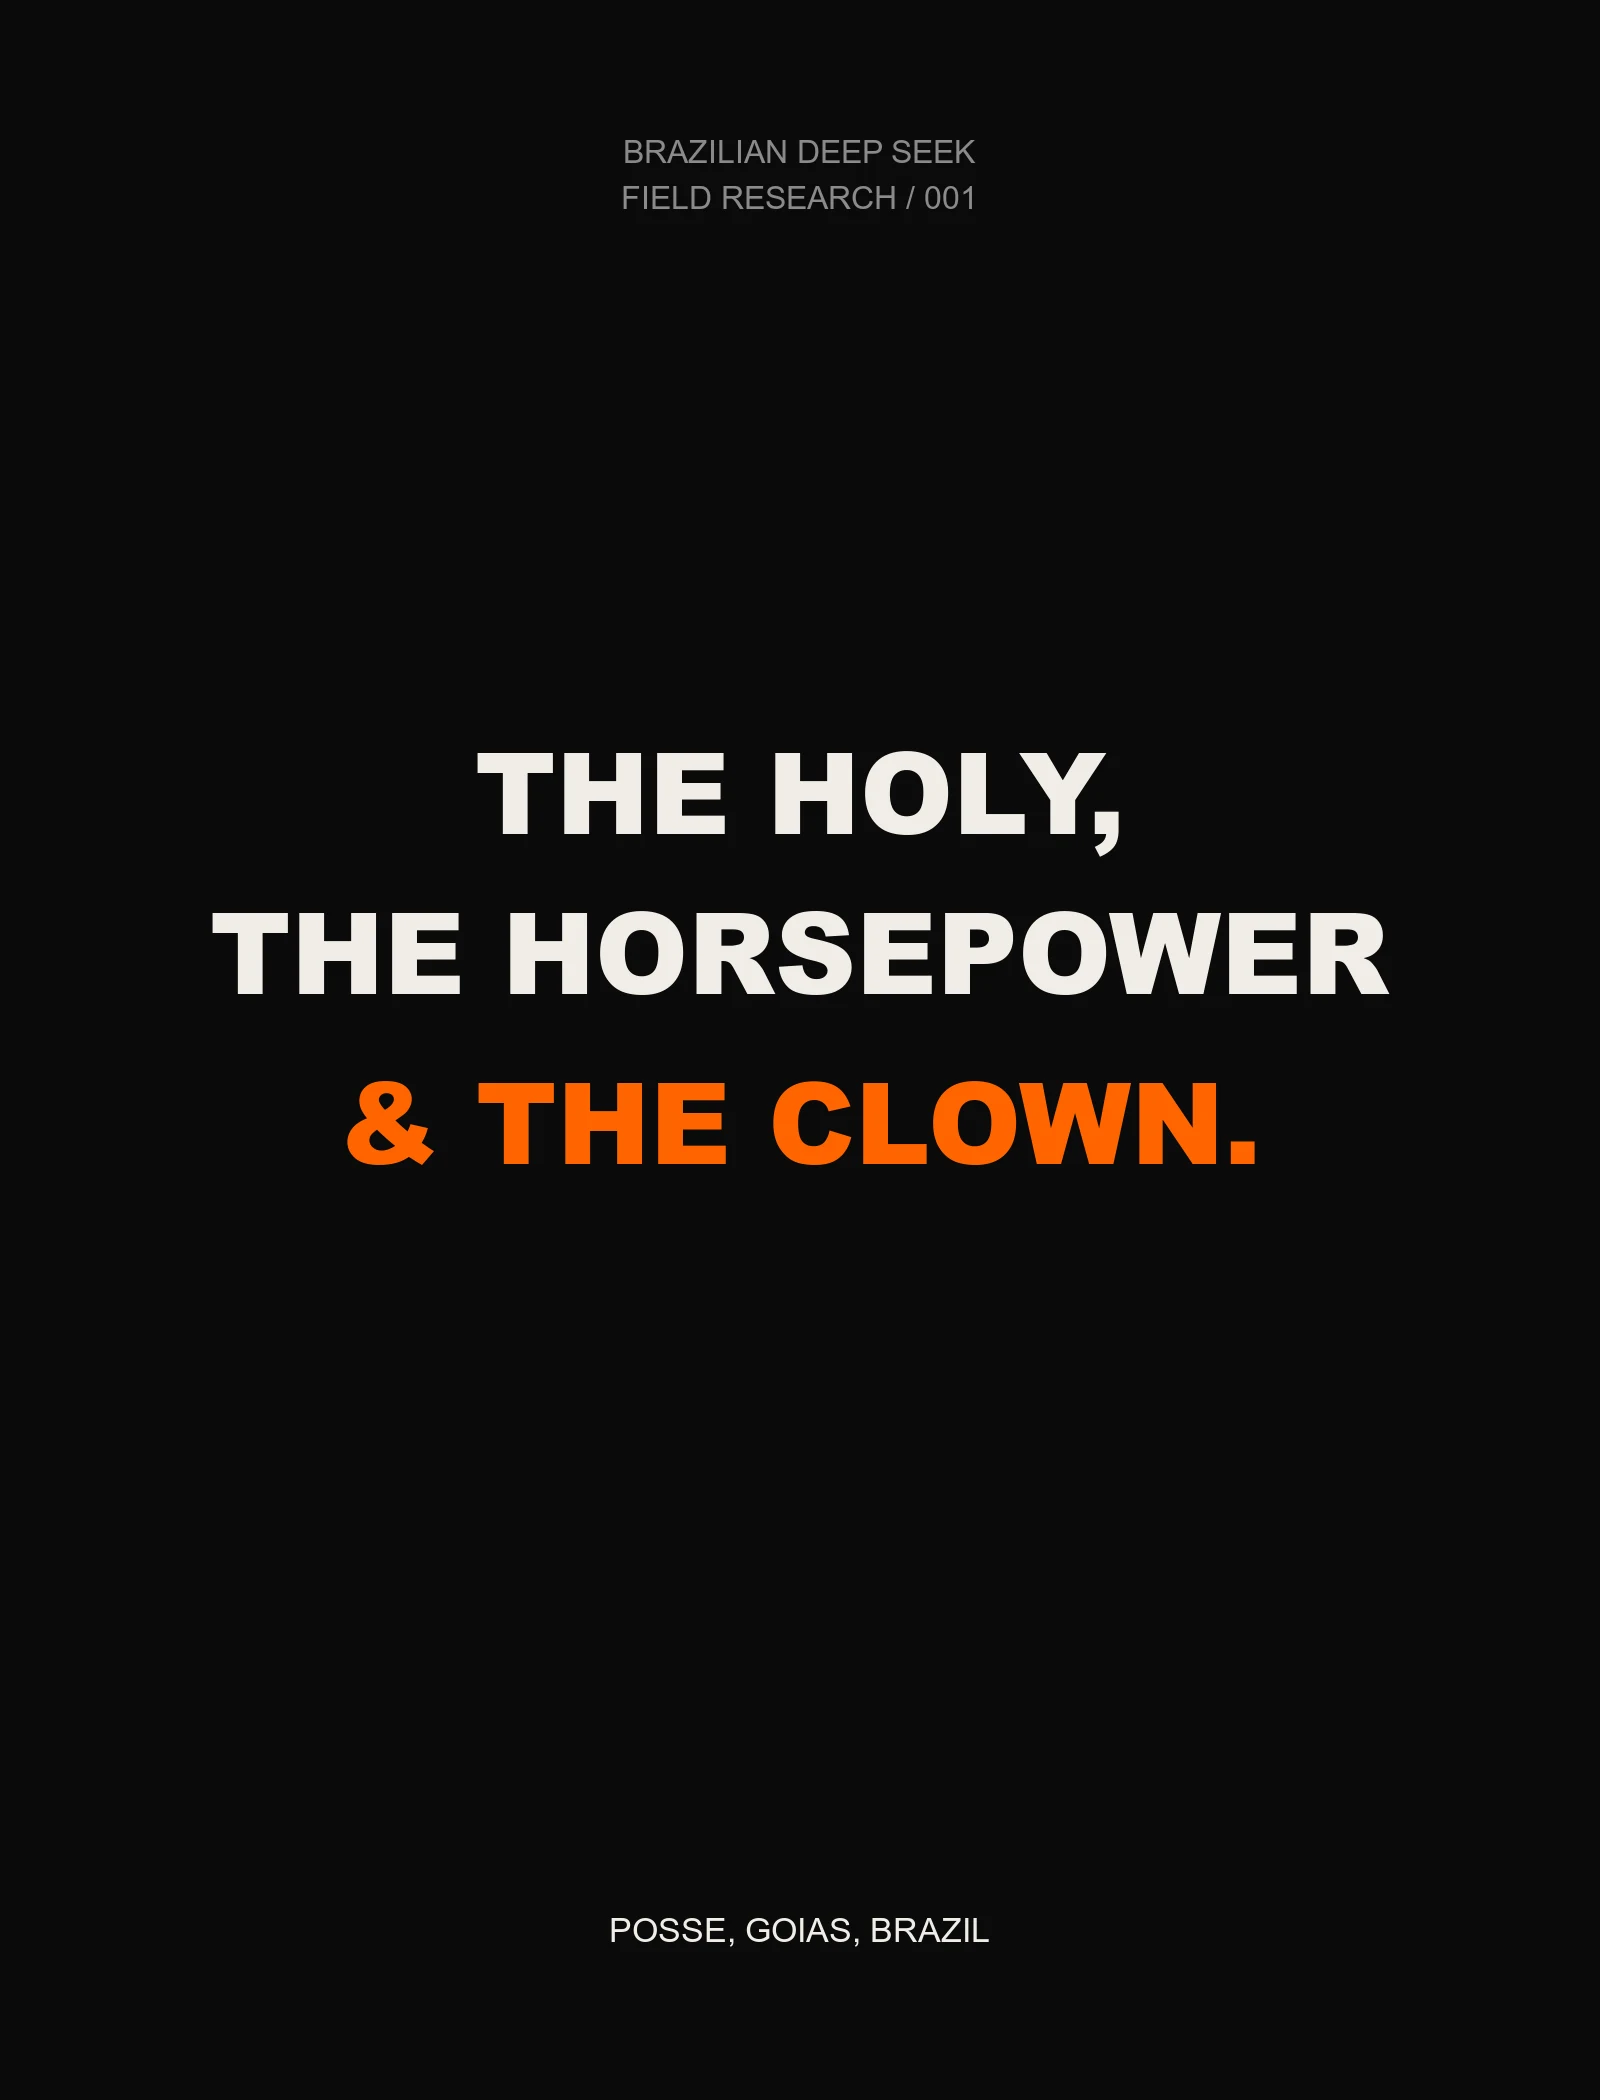
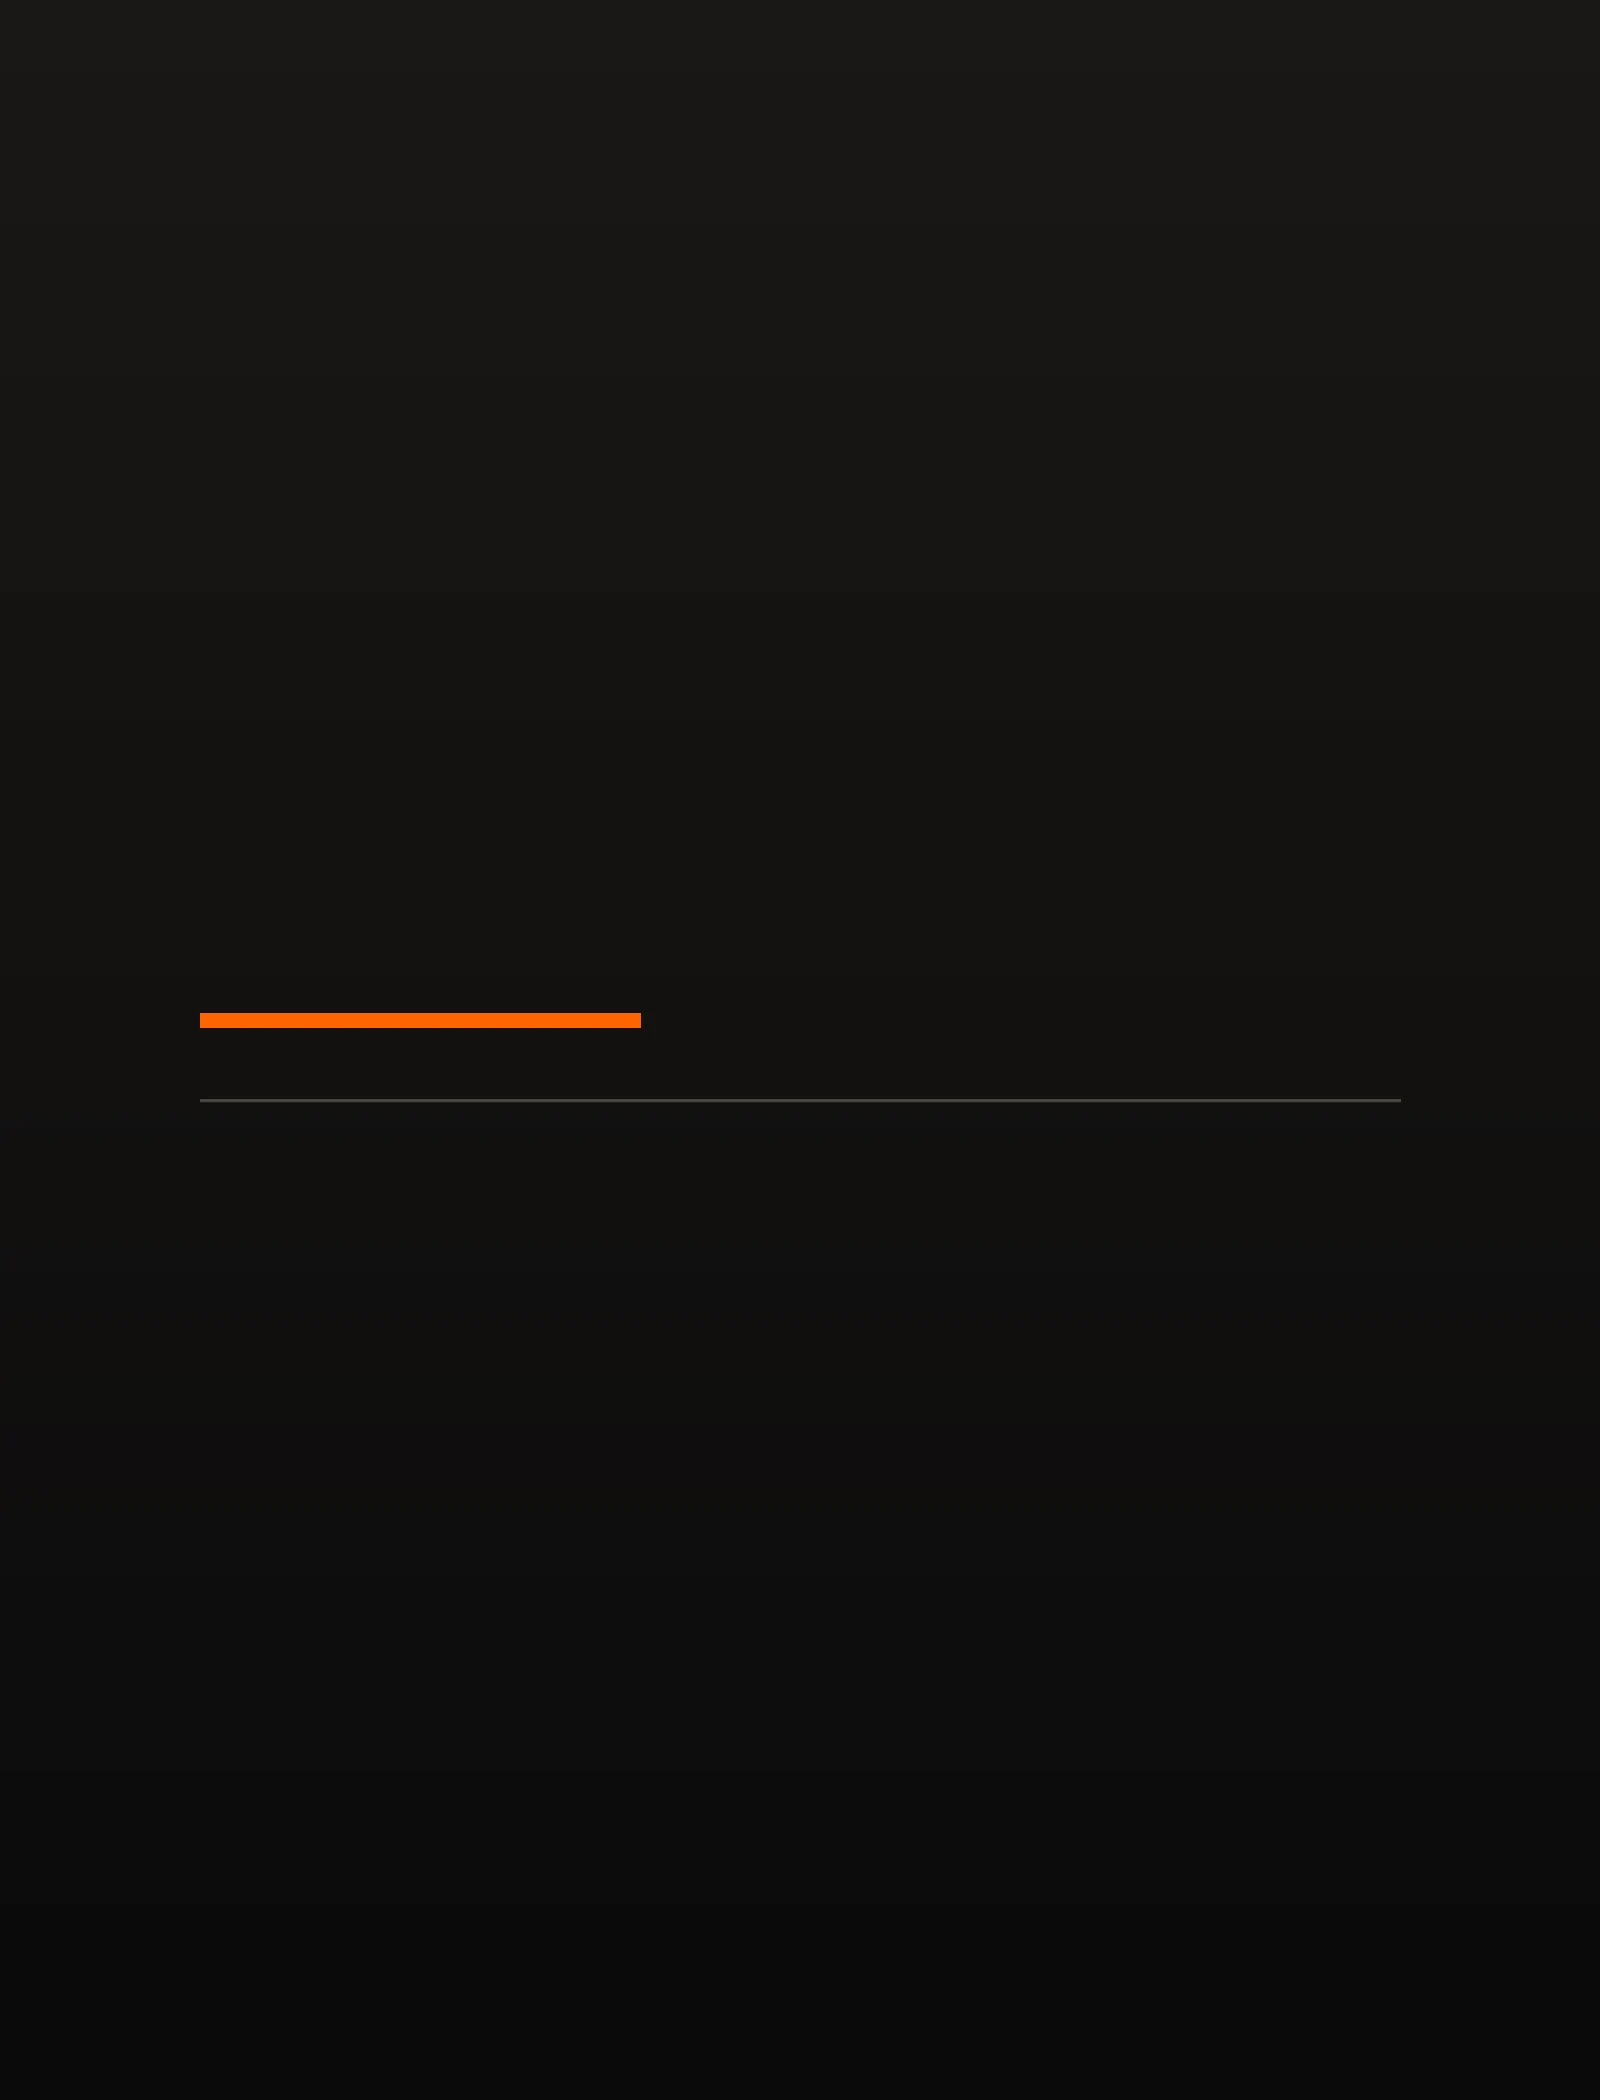
qa visual da leva: capa do artigo sem texto e stickers espalhados de novo
Particao 2 do CHANGES #01. Dois defeitos achados em iPhone 13 real (390px) e
1440px, os dois corrigidos e reconferidos em screenshot.

1. HERO DO ARTIGO NOVO: a capa provisoria trazia o titulo em corpo grande e o
   hero desenha o <h1> POR CIMA dela. O mesmo titulo aparecia duas vezes,
   sobreposto, no mobile e no desktop. A capa passa a ser um campo escuro com um
   filete ambar, SEM TEXTO NENHUM. Alt e _CREDITOS.md atualizados.

2. STICKERS DO MOTOR SCROLLY: `left: calc(15% + (var(--i) * 13%) % 70%)` e CSS
   invalido, porque `%` nao e operador de calc(). O navegador descartava a
   declaracao inteira e os 60 fragmentos da materia caiam todos em `left: 0`,
   empilhados na borda, com a linha girada 18deg cortando a primeira letra fora
   da tela. Medido: `left` computado `0px` em todos. Trocado por um ciclo de seis
   posicoes fixas em nth-child, que nao tem aritmetica para dar errado.

Conferido tambem, sem defeito: home (os dois carrosseis com nome e link proprio,
o FAB do Instagram em 48px so na home), /mag nos dois idiomas, /creators/tavaristico.
Console limpo fora de um aviso antigo de proporcao do logo do rodape.

tsc --noEmit limpo, build limpo. NADA PUBLICADO.

Claude-Session: https://claude.ai/code/session_01NNDzHhu62fyfbbLGjucMQz

diff --git a/src/styles/scrolly.css b/src/styles/scrolly.css
@@ -1019,8 +1019,16 @@
   position: absolute;
   /* Base subiu de 10% para 15% em 24/08/2026: com a fonte maior, a linha girada
      18deg balanca a primeira palavra para fora pela esquerda e o "C" de
-     "Conheci" encostava na borda da janela. */
-  left: calc(15% + (var(--i, 0) * 13%) % 70%);
+     "Conheci" encostava na borda da janela.
+     🔴 CORRIGIDO em 10/09/2026, no QA visual da materia de Posse: a regra era
+     `calc(15% + (var(--i) * 13%) % 70%)`, e `%` NAO e operador de `calc()` (so
+     + - * / sao). A declaracao inteira era invalida e o navegador a descartava:
+     TODO sticker caia em `left: 0`, empilhado na borda, e a linha girada cortava
+     a primeira letra fora da tela. Medido em iPhone 13 (390px): `left` computado
+     `0px` nos 60 fragmentos da materia. O espalhamento agora e um ciclo de seis
+     posicoes por `nth-child`, sem aritmetica: valor fixo nao tem como ser
+     descartado. Teto de 42%, porque `max-width: 52vw` somado a isso ainda cabe. */
+  left: 10%;
   top: calc(8vh + (var(--i, 0) * 22vh));
   /* REGRA DO MOTOR, pedido do fundador em 24/08/2026: os fragmentos soltos
      precisam ser MAIORES. Estavam em 14px (body-sm-size-sm) fixo, girados 18deg
@@ -1037,6 +1045,12 @@
   color: var(--tbf-text-secondary);
   opacity: 0;
 }
+
+.scrolly-stickers__item:nth-child(6n + 2) { left: 34%; }
+.scrolly-stickers__item:nth-child(6n + 3) { left: 18%; }
+.scrolly-stickers__item:nth-child(6n + 4) { left: 42%; }
+.scrolly-stickers__item:nth-child(6n + 5) { left: 26%; }
+.scrolly-stickers__item:nth-child(6n + 6) { left: 14%; }
 
 @supports (animation-timeline: view()) {
   .scrolly-stickers__item {

diff --git a/src/content/articles/brazilian-country-side.ts b/src/content/articles/brazilian-country-side.ts
@@ -101,8 +101,8 @@ export const brazilianCountrySide: ManifestoArticle = {
   cover: {
     src: '/images/editorial/country-side/capa.webp',
     alt: {
-      en: 'Typographic cover on black: the headline THE HOLY, THE HORSEPOWER & THE CLOWN. Provisional, no photograph.',
-      pt: 'Capa tipográfica em fundo preto: o título THE HOLY, THE HORSEPOWER & THE CLOWN. Provisória, sem fotografia.',
+      en: 'Provisional cover: a dark field with an amber rule. No text, no photograph.',
+      pt: 'Capa provisória: campo escuro com um filete âmbar. Sem texto, sem fotografia.',
     },
     credit: '.TBF. inc (capa gerada, provisória)',
   },

diff --git a/public/images/editorial/country-side/_CREDITOS.md b/public/images/editorial/country-side/_CREDITOS.md
@@ -2,14 +2,19 @@
 
 ## capa.webp
 
-O que é: capa TIPOGRÁFICA provisória. Fundo preto, o título ("THE HOLY, THE
-HORSEPOWER & THE CLOWN"), o kicker da série ("BRAZILIAN DEEP SEEK / FIELD
-RESEARCH / 001") e a localização ("POSSE, GOIAS, BRAZIL") em Arial Black e
-Arial Regular, cores do token da casa (`--tbf-color-parchment` #F0EDE6 e
-`--tbf-color-amber` #FF6500).
+O que é: capa provisória SEM TEXTO. Campo escuro em gradiente (#1A1816 a
+#0A0A0A), um filete âmbar (`--tbf-color-amber` #FF6500) e uma régua fina cinza.
+1600 × 2100 px, 7 KB.
 
-Gerada por script local (ImageMagick), 1600 × 2100 px, sem foto, sem banco de
-imagem de terceiro.
+🔴 **O TEXTO SAIU DA CAPA em 10/09/2026, no QA visual.** A primeira versão trazia
+o título em corpo grande, e o hero da matéria desenha o `<h1>` POR CIMA da capa:
+o resultado era o mesmo título duas vezes, sobreposto e ilegível, no mobile e no
+desktop. A segunda versão trocou o título pela marca da série, e o choque
+continuou, menor. Capa de hero não carrega texto nenhum: quem escreve o título
+é o hero.
+
+Gerada por comando local (ImageMagick), sem foto e sem banco de imagem de
+terceiro.
 
 **NÃO é fotografia. NÃO é a capa final.** É placeholder para a matéria não subir
 sem capa nenhuma.
